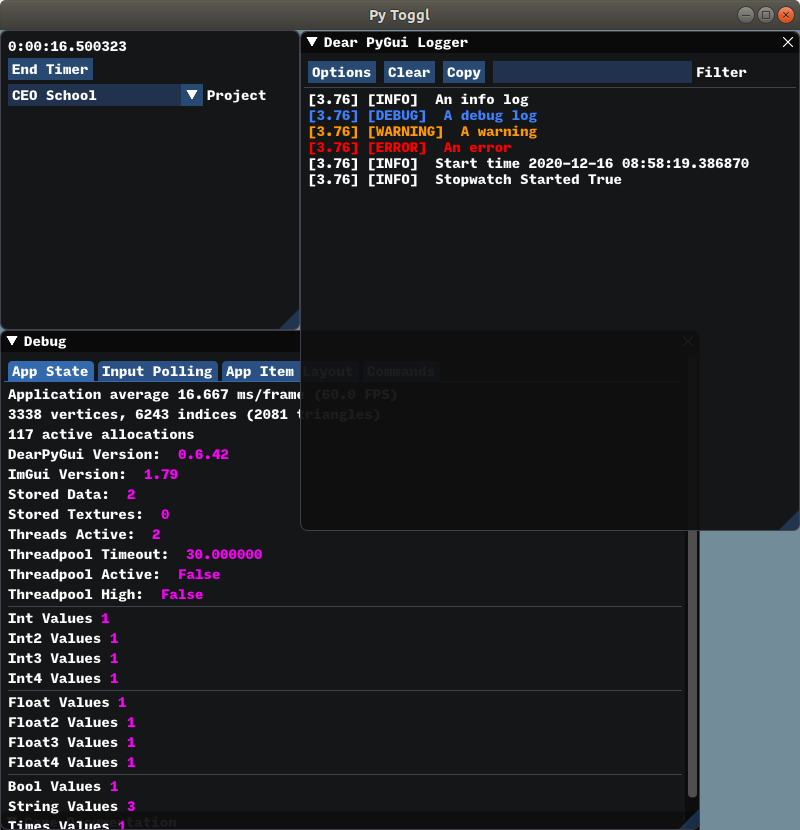
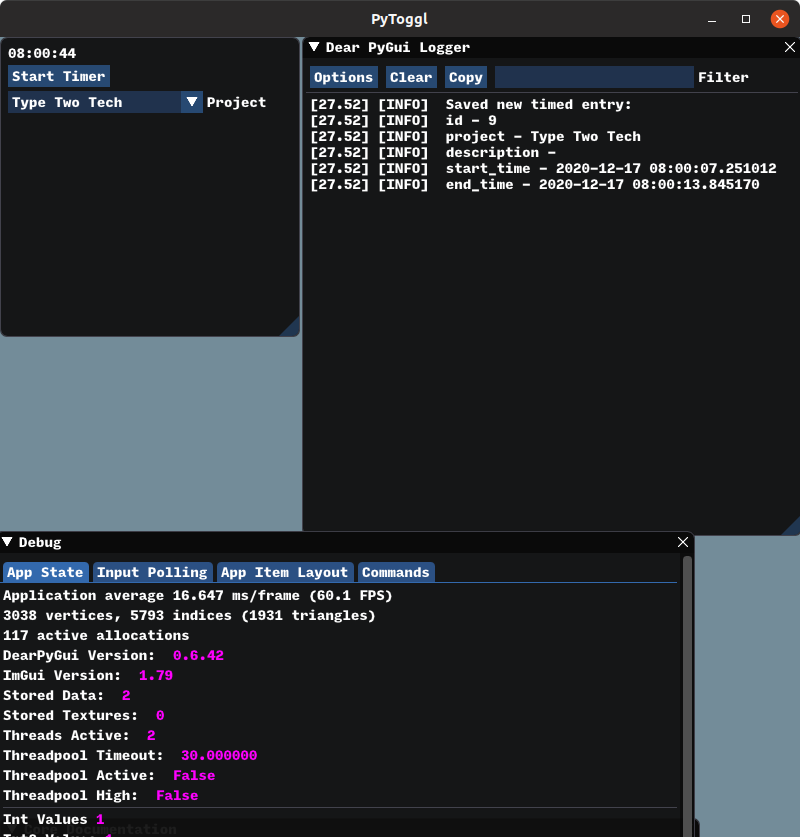
Integrate DatabaseMixen to PyTogglGUI
1. Add save_new_entry method to PyTogglGUI to save timer entries

2. Add Project property to get selected project value

3. Remove generate_sqlite_uri empty method

4. Adjust database.py imports

5. Adjust database add_entry to return Entry dataclass instead of ordered dict.

6. Update development_mode.png pic

Changed region(s): [[0.0, 0.0, 1.0, 1.0], [0.9688, 0.6024, 1.0, 0.6325], [0.9688, 0.0904, 1.0, 0.1205]]

diff --git a/src/gui.py b/src/gui.py
@@ -1,10 +1,12 @@
 """ GUI module, contains BaseGUI class and PyTogglGUI subclass """
 import datetime
-from typing import Tuple, Optional
+from typing import Tuple, Optional, Union
 
 import dearpygui.core as c
 import dearpygui.simple as s
 from dev_gui import start_development_windows
+from database import DatabaseMixin
+from models import Entry, Project
 
 
 class BaseGUI:
@@ -13,7 +15,7 @@ class BaseGUI:
         development: bool = False,
         dev_window_size: Tuple[int, int] = (800, 800),
         prod_window_size: Tuple[int, int] = (300, 300),
-        title: str = "Py Toggl",
+        title: str = "PyToggl",
         logger: str = "",
     ):
         """
@@ -103,6 +105,8 @@ class PyTogglGUI(BaseGUI):
         """
         super().__init__(**kwargs)
 
+        self.db = DatabaseMixin()
+
         self.initialize_tracking_data()
 
     def initialize_tracking_data(self):
@@ -111,10 +115,6 @@ class PyTogglGUI(BaseGUI):
         """
         c.add_data("tracking", False)
         c.add_data("start_time", datetime.datetime.now())
-
-    @staticmethod
-    def generate_sqlite_uri(db_uri: str) -> str:
-        ...
 
     @property
     def tracking(self):
@@ -159,6 +159,10 @@ class PyTogglGUI(BaseGUI):
         """
         return datetime.datetime.now() - self.start_time
 
+    @property
+    def project(self):
+        return c.get_value("Project")
+
     def flip_timer_state(self, *args):
         """
         Flips tracking bool, sets starting time, and flips button label
@@ -167,11 +171,35 @@ class PyTogglGUI(BaseGUI):
         """
         if self.tracking:
             label = "Start Timer"
+            self.save_new_entry()
+
         else:
             label = "End Timer"
+
         s.set_item_label("Start Timer", label=label)
         self.set_tracking()
         self.set_start_time()
+
+    def save_new_entry(self, return_value: bool = False) -> Union[None, Entry]:
+        """
+        Inserts timer entry to entries table
+        :param return_value: Option to return the created entry
+        :type return_value: bool
+        :return: None or created entry in db.
+        """
+        entry_to_insert = Entry(
+            id=None,
+            project=self.project,
+            description="",
+            start_time=self.start_time,
+            end_time=datetime.datetime.now(),
+        )
+        updated_entry = self.db.add_entry(entry_to_insert, return_value=return_value)
+
+        if return_value is True:
+            return updated_entry
+        else:
+            return
 
     def render(self, *args):
         """

diff --git a/src/database.py b/src/database.py
@@ -2,7 +2,7 @@
 from typing import Tuple, Union
 
 import dataset
-from .models import Entry, Project
+from models import Entry, Project
 from pathlib import Path
 import json
 
@@ -61,7 +61,7 @@ class DatabaseMixin:
         if not return_value:
             return inserted_id
         else:
-            return self.entries.find_one(id=inserted_id)
+            return Entry(**self.entries.find_one(id=inserted_id))
 
     def add_project(
         self, project: Project, return_value: bool = False
